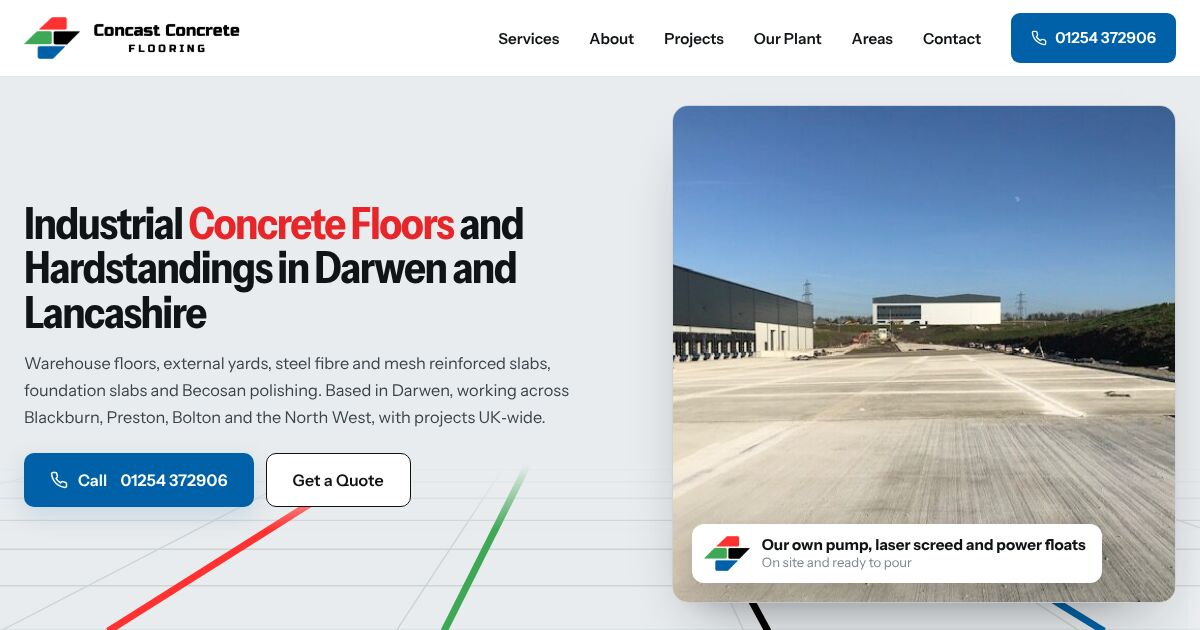
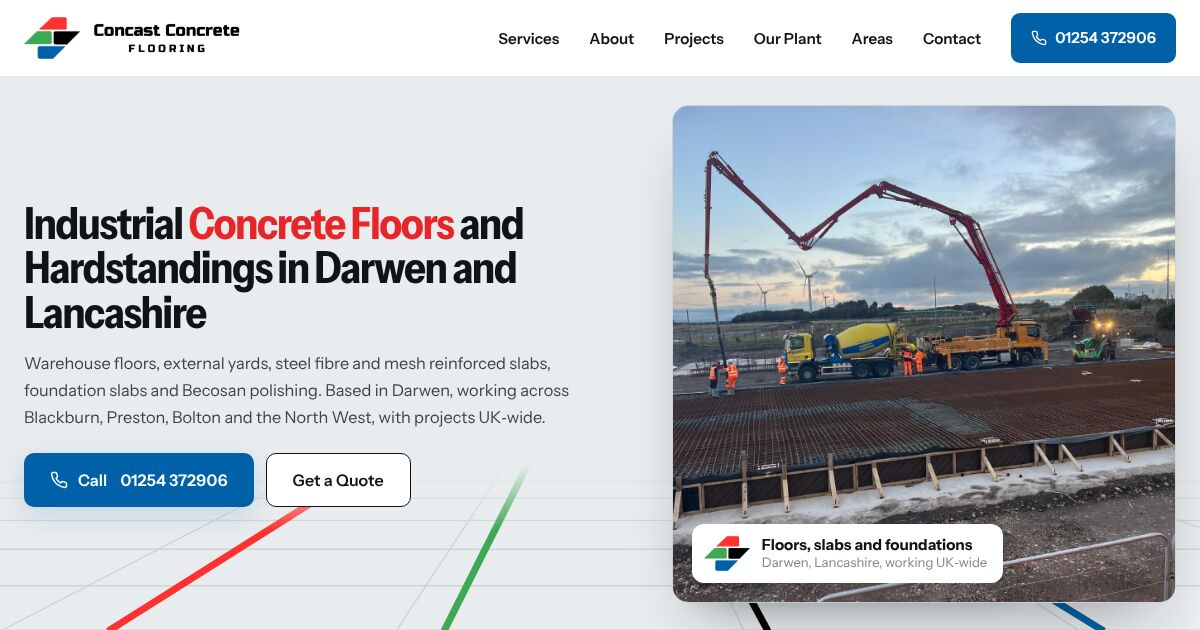
Concast Concrete Flooring: use their own site photos
Hero, services, gallery and plant photos swapped to the client's own job photos. Hero badge reworded, foundations card retitled to match its photo.

Changed region(s): [[0.555, 0.1508, 0.9867, 0.9651]]

diff --git a/concast-concrete-flooring/index.html b/concast-concrete-flooring/index.html
@@ -427,10 +427,10 @@ footer a:hover{color:#fff}
       </svg>
     </div>
     <div class="hero-photo fade d4">
-      <div class="frame"><img src="hero.jpg" alt="Finished external concrete hardstanding at a distribution park" width="640" height="480"></div>
+      <div class="frame"><img src="hero.jpg" alt="Boom pump placing concrete over a reinforced slab at dusk" width="1600" height="1200"></div>
       <div class="hero-badge">
         <img src="mark.png" alt="" width="563" height="422">
-        <div><b>Our own pump, laser screed and power floats</b><span>On site and ready to pour</span></div>
+        <div><b>Floors, slabs and foundations</b><span>Darwen, Lancashire, working UK&#8209;wide</span></div>
       </div>
     </div>
   </div>
@@ -455,16 +455,16 @@ footer a:hover{color:#fff}
         <div class="tx"><h3>Warehouse and industrial floors</h3><p>Large-area internal slabs, laser screeded and power floated to a flat finish.</p></div>
       </article>
       <article class="svc reveal">
-        <div class="ph"><img src="hardstanding.jpg" alt="External concrete hardstanding beside a distribution warehouse" loading="lazy" width="640" height="480"></div>
+        <div class="ph"><img src="hardstanding.jpg" alt="Freshly textured external concrete slab with edge reinforcement" loading="lazy" width="1200" height="900"></div>
         <div class="tx"><h3>External hardstandings</h3><p>Service yards, HGV aprons and loading areas, jointed and textured.</p></div>
       </article>
       <article class="svc reveal">
-        <div class="ph"><img src="mesh-warehouse.jpg" alt="Steel mesh laid across a warehouse floor ready for concrete" loading="lazy" width="640" height="480"></div>
+        <div class="ph"><img src="rebar-mat.jpg" alt="Steel reinforcement fixed across a slab ready for the pour" loading="lazy" width="1200" height="900"></div>
         <div class="tx"><h3>Mesh and steel fibre reinforced slabs</h3><p>SFRC and mesh reinforced floors for indoor and outdoor use.</p></div>
       </article>
       <article class="svc reveal">
-        <div class="ph"><img src="membrane.jpg" alt="Membrane laid under a new steel frame ahead of a slab pour" loading="lazy" width="640" height="480"></div>
-        <div class="tx"><h3>Foundation slabs</h3><p>Ground-bearing slabs prepared, membraned and poured for new steel frames.</p></div>
+        <div class="ph"><img src="foundations.jpg" alt="Row of poured pad foundations on a prepared stone base" loading="lazy" width="1200" height="900"></div>
+        <div class="tx"><h3>Foundations and ground slabs</h3><p>Pad foundations and ground-bearing slabs, set out and poured for new frames.</p></div>
       </article>
       <article class="svc icon reveal">
         <div class="ic"><svg viewBox="0 0 48 48" fill="none" stroke-width="2.4" stroke-linecap="round" stroke-linejoin="round"><path d="M6 14h36M6 34h36M10 14v20M38 14v20"/><path d="M16 28v-6a2 2 0 0 1 2-2h12a2 2 0 0 1 2 2v6M15 28h18"/><circle cx="19" cy="30" r="1.6"/><circle cx="29" cy="30" r="1.6"/></svg></div>
@@ -497,18 +497,18 @@ footer a:hover{color:#fff}
   <div class="wrap">
     <div class="sec-head reveal"><h2>Recent <span class="key">projects</span></h2></div>
     <div class="gal">
-      <figure class="w reveal"><div class="ph"><img src="floated-floor.jpg" alt="Power floated concrete floor in a long-span warehouse" loading="lazy" width="640" height="312"></div><figcaption>Power floated floor in a long-span warehouse</figcaption></figure>
-      <figure class="w reveal"><div class="ph"><img src="night-finish.jpg" alt="Floating a new concrete slab under site lights at night" loading="lazy" width="640" height="480"></div><figcaption>Floating a new slab after dark</figcaption></figure>
-      <figure class="reveal"><div class="ph"><img src="unit-floor.jpg" alt="Finished concrete floor in a new steel-framed unit" loading="lazy" width="640" height="480"></div><figcaption>Finished floor in a new steel-framed unit</figcaption></figure>
-      <figure class="reveal"><div class="ph"><img src="steel-frame-slab.jpg" alt="Concrete slab finished beneath a new steel frame" loading="lazy" width="640" height="480"></div><figcaption>Slab finished beneath a new steel frame</figcaption></figure>
-      <figure class="reveal"><div class="ph"><img src="yard.jpg" alt="External concrete hardstanding at a distribution park" loading="lazy" width="640" height="480"></div><figcaption>External hardstanding at a distribution park</figcaption></figure>
+      <figure class="w reveal"><div class="ph"><img src="slab-pour.jpg" alt="Large concrete slab pour placed by boom pump" loading="lazy" width="1400" height="1050"></div><figcaption>Large slab pour placed by boom pump</figcaption></figure>
+      <figure class="w reveal"><div class="ph"><img src="insitu-wall.jpg" alt="In-situ concrete wall beside its system formwork" loading="lazy" width="1400" height="1050"></div><figcaption>In-situ concrete wall beside its system formwork</figcaption></figure>
+      <figure class="reveal"><div class="ph"><img src="evening-pour.jpg" alt="Evening slab pour under site lights" loading="lazy" width="1200" height="900"></div><figcaption>Evening slab pour under site lights</figcaption></figure>
+      <figure class="reveal"><div class="ph"><img src="wall-face.jpg" alt="Finished face of a cast in-situ concrete wall" loading="lazy" width="1200" height="900"></div><figcaption>Finished face of a cast in-situ wall</figcaption></figure>
+      <figure class="reveal"><div class="ph"><img src="slab-finishing.jpg" alt="Team finishing a fresh concrete slab beside the pump" loading="lazy" width="1200" height="900"></div><figcaption>Team finishing a fresh slab</figcaption></figure>
     </div>
   </div>
 </section>
 
 <section class="plant" id="plant">
   <div class="plant-in wrap">
-    <div class="plant-photo reveal"><img src="placing.jpg" alt="Team placing concrete over steel mesh inside a new building" loading="lazy" width="640" height="480"></div>
+    <div class="plant-photo reveal"><img src="float-finish.jpg" alt="Power floating a new concrete slab" loading="lazy" width="1200" height="900"></div>
     <div class="reveal">
       <h2>Our own plant</h2>
       <ul class="plant-list">
@@ -610,7 +610,7 @@ footer a:hover{color:#fff}
     </div>
     <div>
       <h3>Services</h3>
-      <ul><li><a href="#services">Warehouse floors</a></li><li><a href="#services">External hardstandings</a></li><li><a href="#services">Foundation slabs</a></li><li><a href="#services">Becosan polishing</a></li></ul>
+      <ul><li><a href="#services">Warehouse floors</a></li><li><a href="#services">External hardstandings</a></li><li><a href="#services">Foundations and ground slabs</a></li><li><a href="#services">Becosan polishing</a></li></ul>
     </div>
     <div>
       <h3>Areas</h3>
